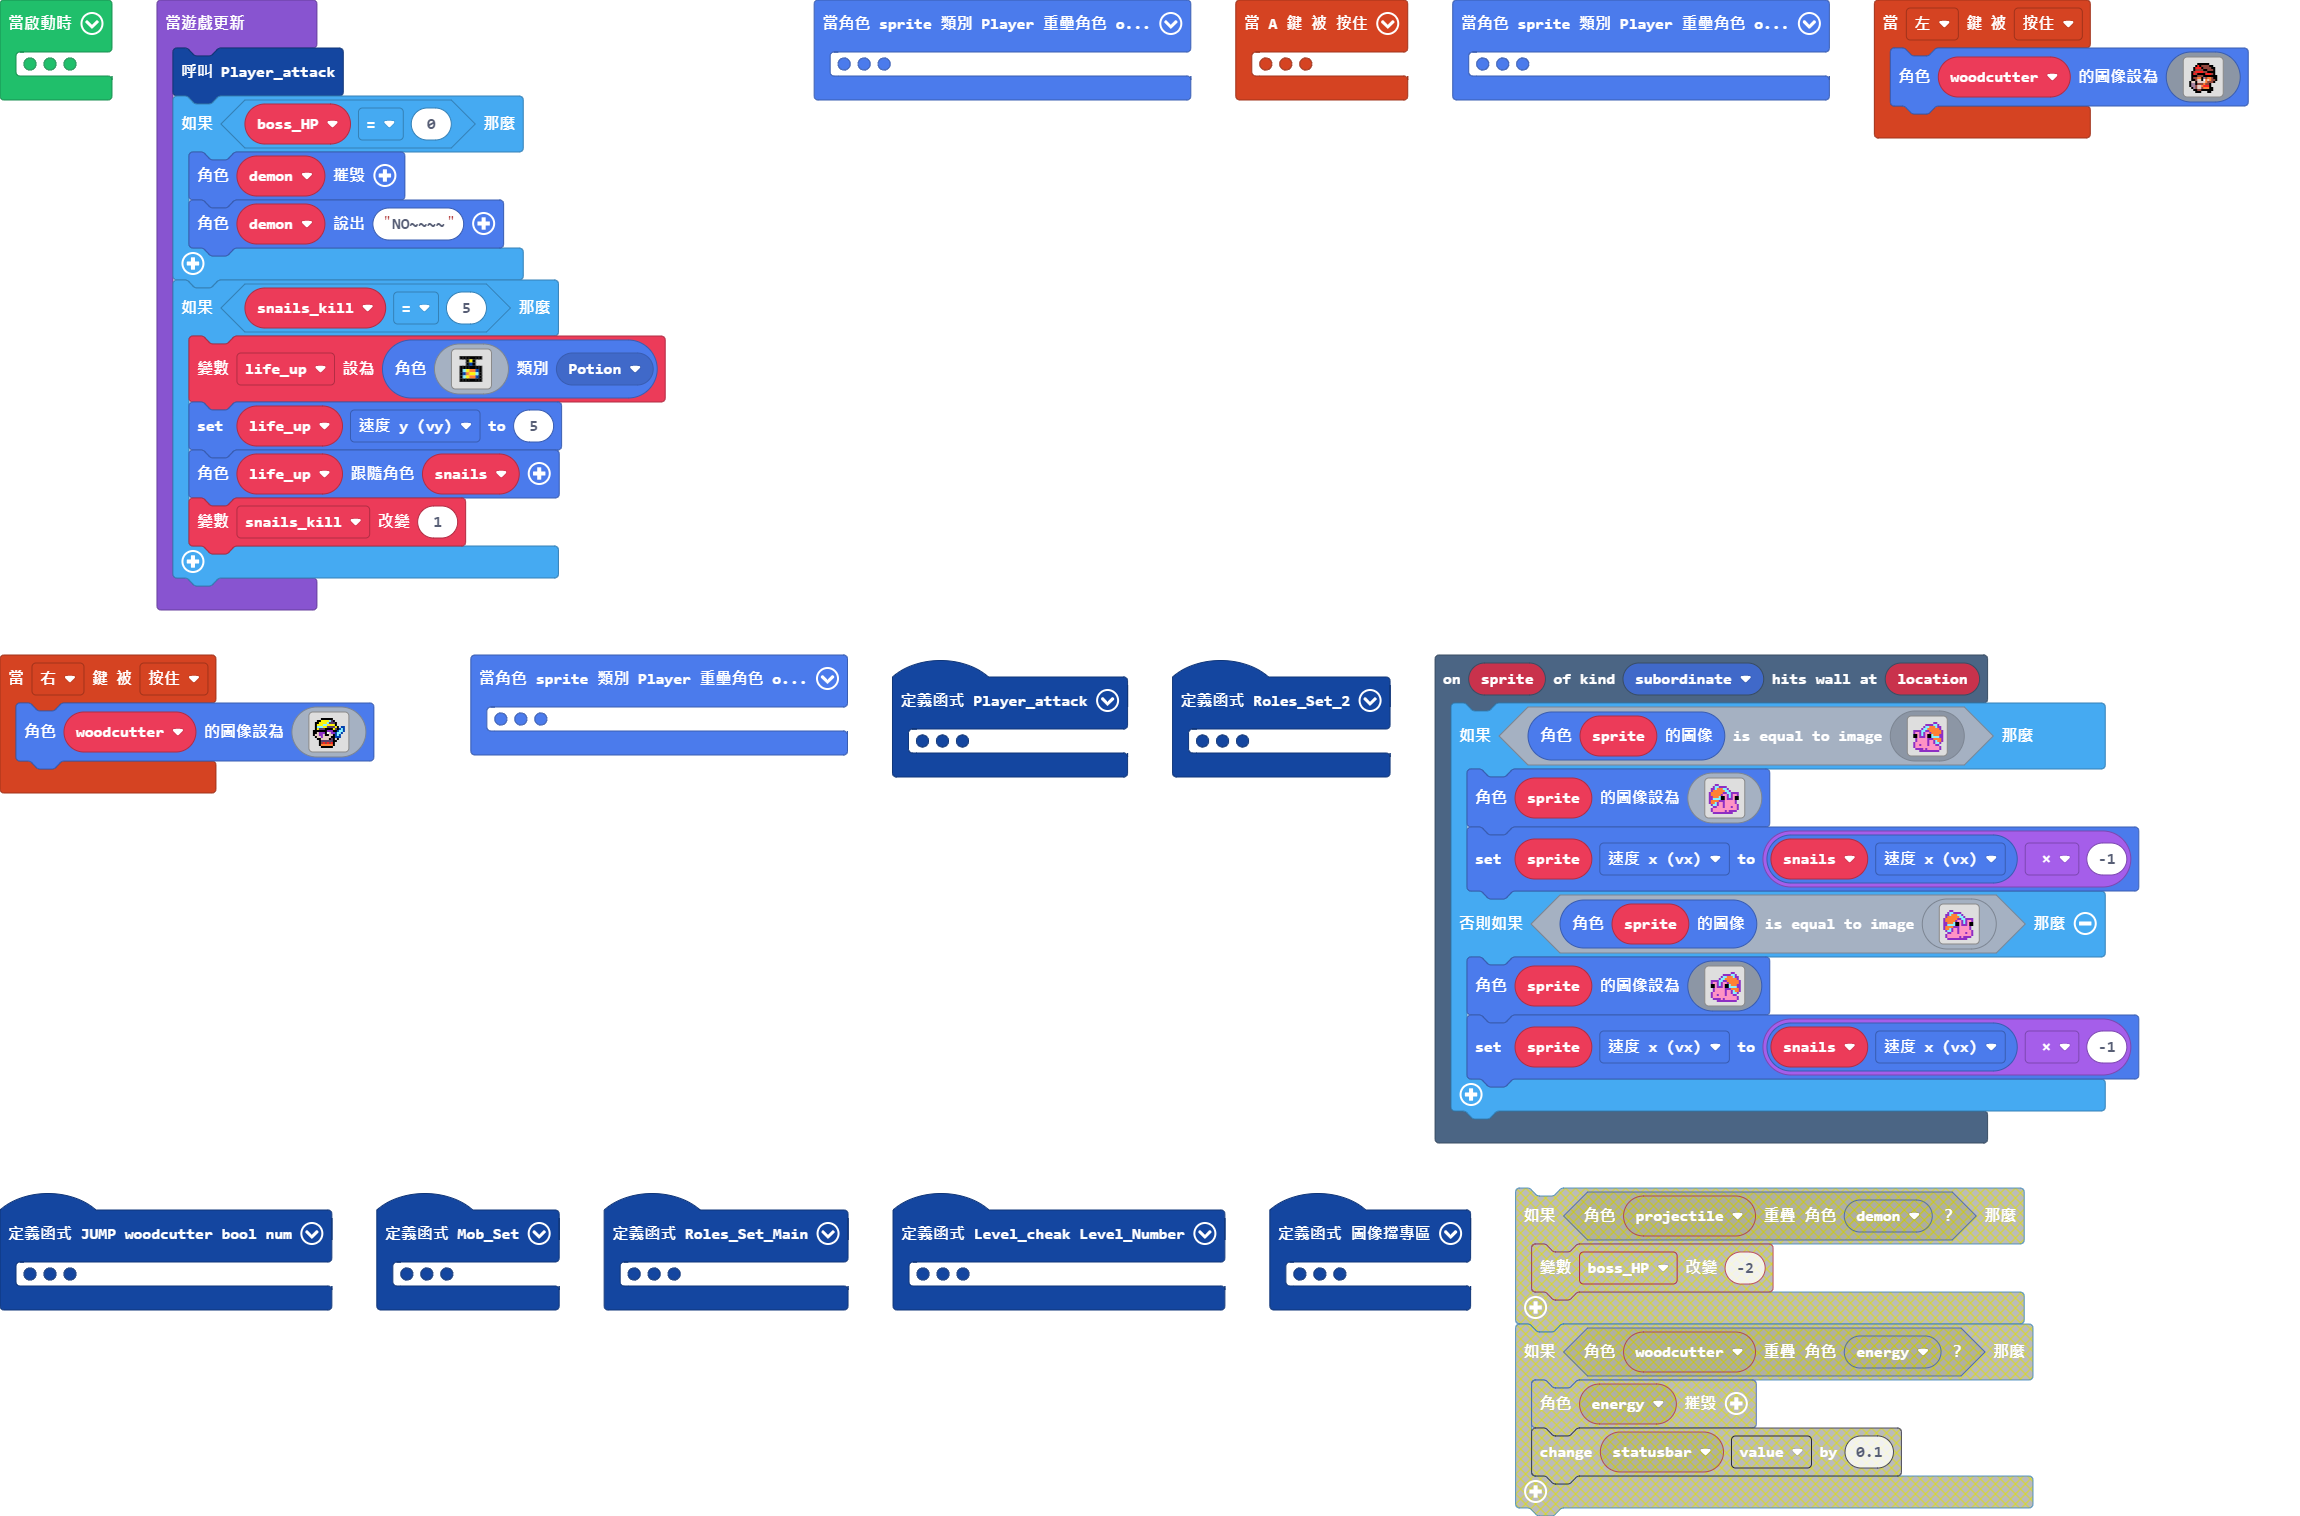
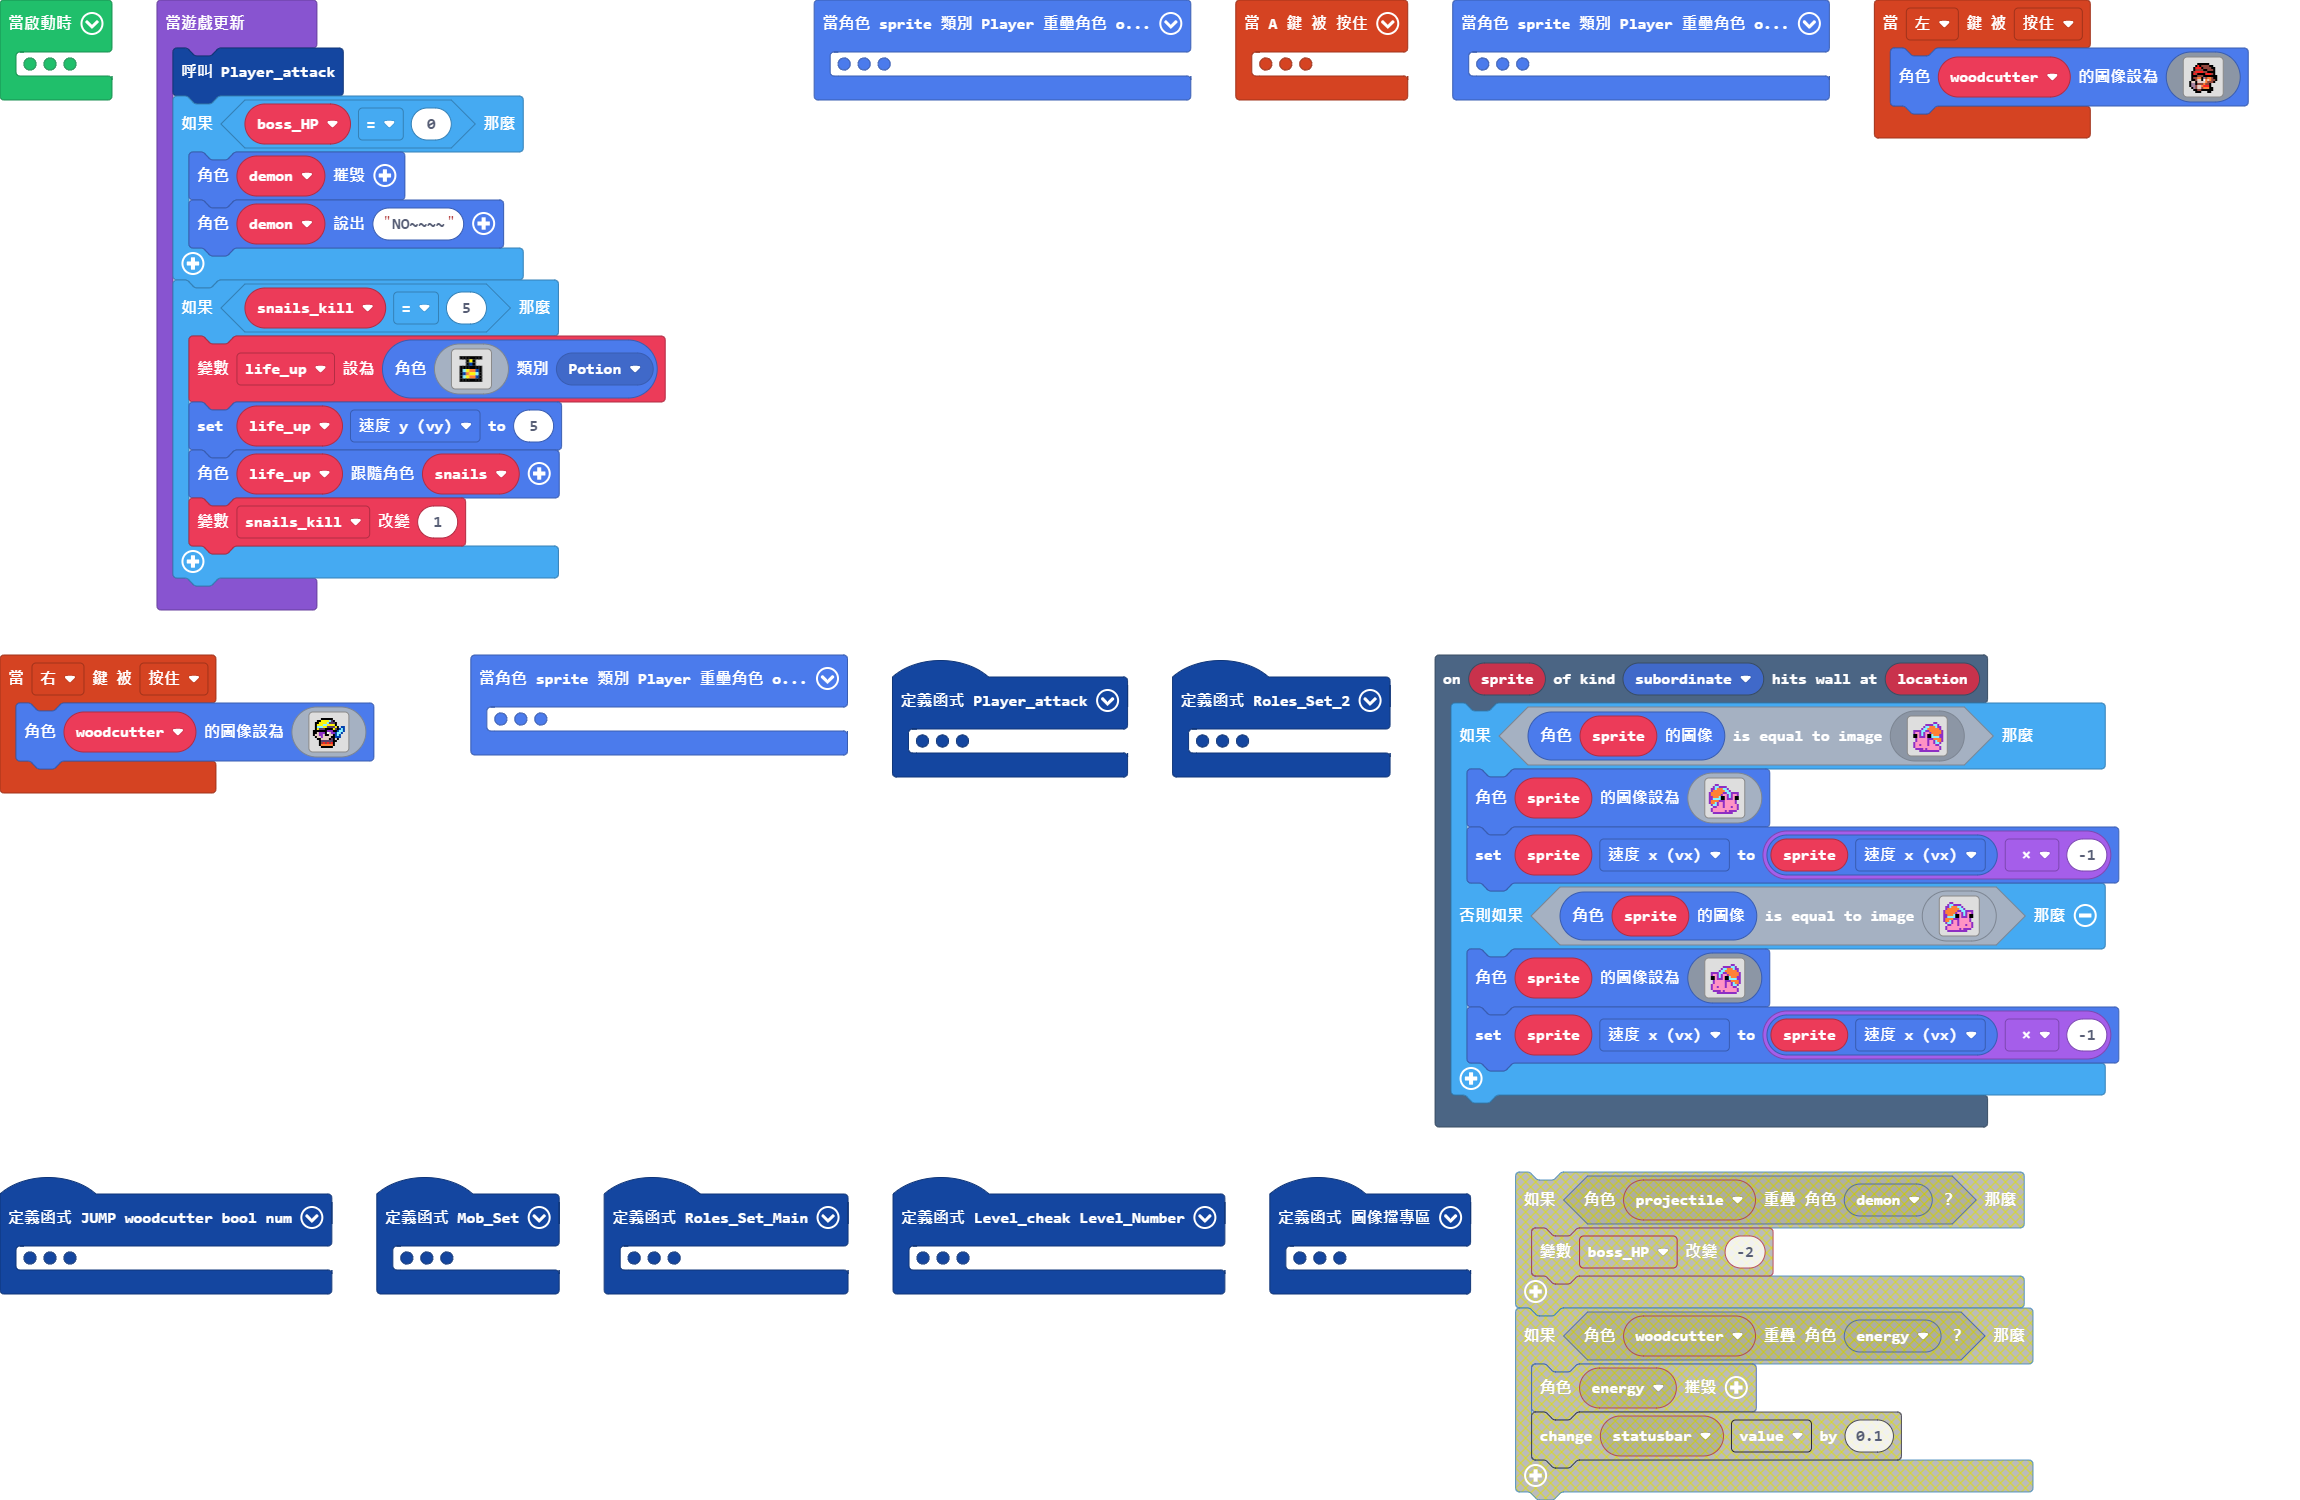
Update main.blocks, main.ts

diff --git a/main.ts b/main.ts
@@ -510,7 +510,7 @@ scene.onHitWall(SpriteKind.subordinate, function (sprite, location) {
             . a 3 3 3 3 3 3 a 3 a a a a . . 
             . . a a a a a a a a a a . . . . 
             `)
-        sprite.vx = snails.vx * -1
+        sprite.vx = sprite.vx * -1
     } else if (sprite.image.equals(img`
         . . . . . . . . . . . . . . . . 
         . . . a a . . . . . . . . . . . 
@@ -547,7 +547,7 @@ scene.onHitWall(SpriteKind.subordinate, function (sprite, location) {
             . . a a a a 3 a 3 3 3 3 3 3 a . 
             . . . . a a a a a a a a a a . . 
             `)
-        sprite.vx = snails.vx * -1
+        sprite.vx = sprite.vx * -1
     }
 })
 controller.right.onEvent(ControllerButtonEvent.Pressed, function () {
